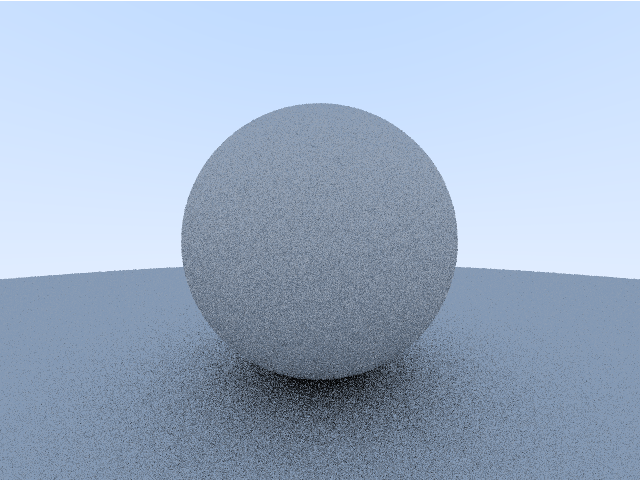
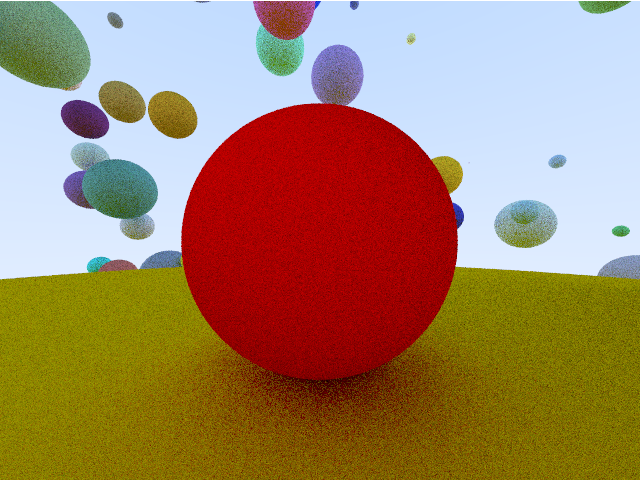
move front face normal calc to hitrecord... add materials

diff --git a/rtCLI/main.go b/rtCLI/main.go
@@ -18,12 +18,13 @@ func testRayColor(r core.Ray, scene *[]core.Hittable, depth int) core.Col3 {
 	}
 	hit := core.HitRecord{}
 	if core.GetClosestHit(scene, &r, 0.001, math.Inf(1), &hit) {
-		nextRayTarget := hit.Hitpoint.Add(hit.Normal).Add(core.GetRandomVectorInUnitSphere())
-		norm := hit.Normal
-		if !hit.FrontFacing {
-			norm = norm.Negate()
+
+		scattered := core.Ray{}
+		attenuation := core.Col3{}
+		if (hit.HitMaterial).Scatter(&r, &hit, &attenuation, &scattered) {
+			return core.Multiply(attenuation, testRayColor(scattered, scene, depth-1))
 		}
-		return testRayColor(core.NewRay(hit.Hitpoint, nextRayTarget.Subtract(hit.Hitpoint)), scene, depth-1).Scale(.5)
+		return core.Col3{0, 0, 0}
 	}
 	dn := core.Normalize(r.Direction)
 	var t = (dn.Y + 1.0) * .5
@@ -44,17 +45,19 @@ func main() {
 
 	fmt.Println("creating a scene with some spheres")
 
-	scene := []core.Hittable{&core.Sphere{core.Vec3{0, 0, -1}, 0.5}, &core.Sphere{core.Vec3{0, -100.5, -1}, 100}}
+	scene := []core.Hittable{&core.Sphere{core.Vec3{0, 0, -1}, 0.5, &core.DiffuseMaterial{core.Col3{1, 0, 0}}},
+		&core.Sphere{core.Vec3{0, -100.5, -1}, 100, &core.DiffuseMaterial{core.Col3{.7, .5, 0}}}}
 
-	for i := 0; i < 4; i++ {
-		newSphere := core.Sphere{core.Vec3{rand.Float64()*100.0 - 50, rand.Float64()*100.0 - 50, rand.Float64()*100.0 - 50}, rand.Float64() * 5.0}
+	for i := 0; i < 300; i++ {
+		newSphere := core.Sphere{core.Vec3{rand.Float64()*100.0 - 50, rand.Float64()*100.0 - 50, rand.Float64()*100.0 - 50}, rand.Float64() * 5.0,
+			&core.DiffuseMaterial{core.RandomVectorByRange(0, 1)}}
 		scene = append(scene, &newSphere)
 	}
 
 	fmt.Println("creating camera and image")
 	const imageWidth int = 640
 	const imageHeight int = 480
-	const samplesPerPixel = 4
+	const samplesPerPixel = 10
 	const maxDepth = 50
 	img := image.NewRGBA(image.Rect(0, 0, imageWidth, imageHeight))
 	cam := core.NewCamera(2, 2.66666666667, 1, core.NewVector3(0, 0, 0))

diff --git a/core/hittable.go b/core/hittable.go
@@ -9,10 +9,14 @@ type HitRecord struct {
 	Normal      Vec3
 	t           float64
 	FrontFacing bool
+	HitMaterial Material
 }
 
 func (hr *HitRecord) CalculateIfHitIsFrontFacing(ray *Ray) {
 	hr.FrontFacing = Dot(ray.Direction, hr.Normal) < 0
+	if !hr.FrontFacing {
+		hr.Normal = hr.Normal.Negate()
+	}
 }
 
 type Hittable interface {
@@ -20,8 +24,9 @@ type Hittable interface {
 }
 
 type Sphere struct {
-	Center Pt3
-	Radius float64
+	Center   Pt3
+	Radius   float64
+	Material Material
 }
 
 func (s *Sphere) Hit(ray *Ray, tmin float64, tmax float64, record *HitRecord) bool {
@@ -45,6 +50,7 @@ func (s *Sphere) Hit(ray *Ray, tmin float64, tmax float64, record *HitRecord) bo
 	record.Hitpoint = ray.At(root)
 	record.Normal = (record.Hitpoint.Subtract(s.Center)).Scale(1.0 / s.Radius)
 	record.CalculateIfHitIsFrontFacing(ray)
+	record.HitMaterial = *&s.Material
 	return true
 
 }

diff --git a/core/material.go b/core/material.go
@@ -1,0 +1,21 @@
+package core
+
+type Material interface {
+	Scatter(rayIn *Ray, hitRecord *HitRecord, attenuation *Col3, scatteredRay *Ray) bool
+}
+
+type DiffuseMaterial struct {
+	Albedo Col3
+}
+
+func (mat *DiffuseMaterial) Scatter(rayIn *Ray, hitRecord *HitRecord, attenuation *Col3, scatteredRay *Ray) bool {
+	norm := hitRecord.Normal
+
+	scatterDirection := norm.Add(GetRandomVectorInUnitSphere())
+	if scatterDirection.NearZero() {
+		scatterDirection = norm
+	}
+	*scatteredRay = NewRay(hitRecord.Hitpoint, scatterDirection)
+	*attenuation = *&mat.Albedo
+	return true
+}

diff --git a/core/vector.go b/core/vector.go
@@ -46,7 +46,6 @@ func GetRandomVectorInUnitSphere() Vec3 {
 		randpt := RandomVectorByRange(-1, 1)
 		if randpt.LengthSquared() >= 1 {
 			continue
-
 		}
 		return randpt
 	}
@@ -99,6 +98,14 @@ func (v Vec3) LengthSquared() float64 {
 
 func (v Vec3) String() string {
 	return fmt.Sprintf("[%f, %f, %f]", v.X, v.Y, v.Z)
+}
+
+func (v Vec3) NearZero() bool {
+	const e = .000001
+	if math.Abs(v.X) < e && math.Abs(v.Y) < e && math.Abs(v.Z) < e {
+		return true
+	}
+	return false
 }
 
 //Multiply does componentwise multiplication - hadamard product
